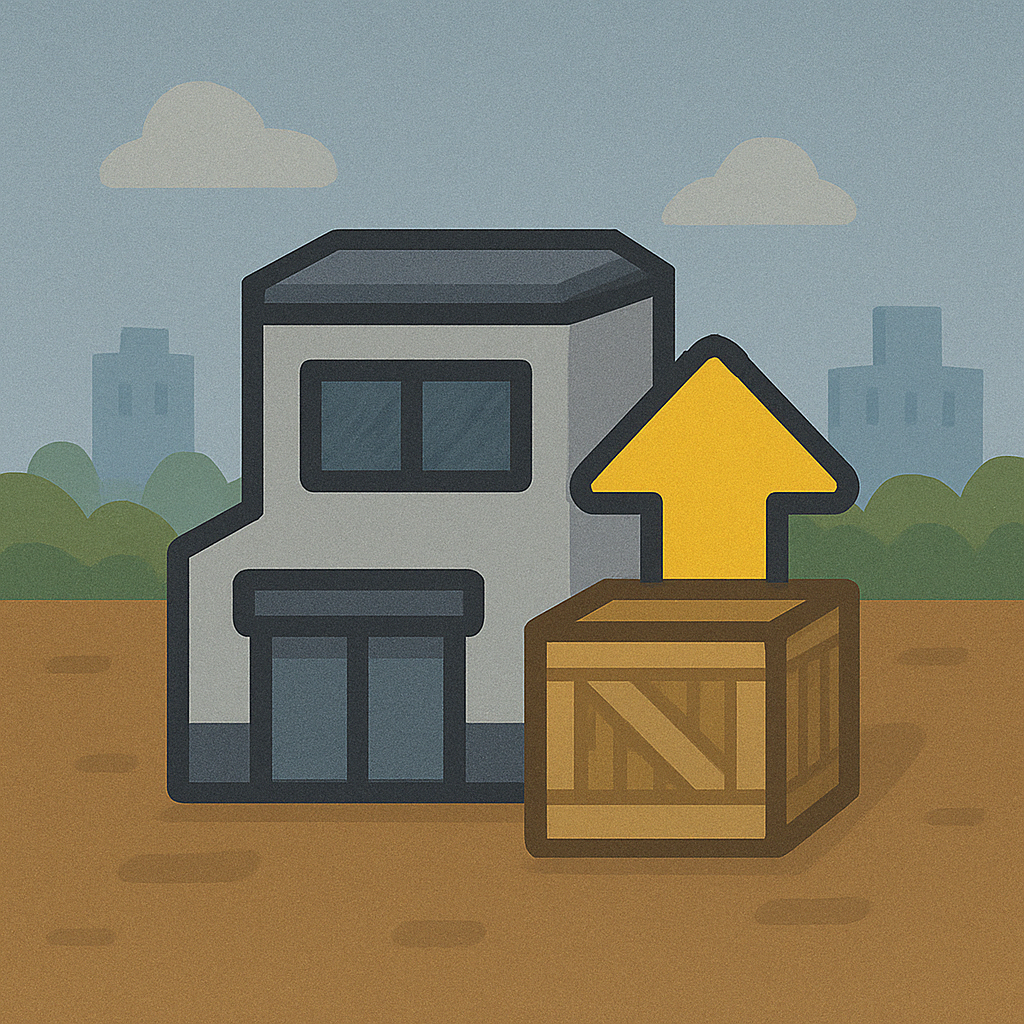
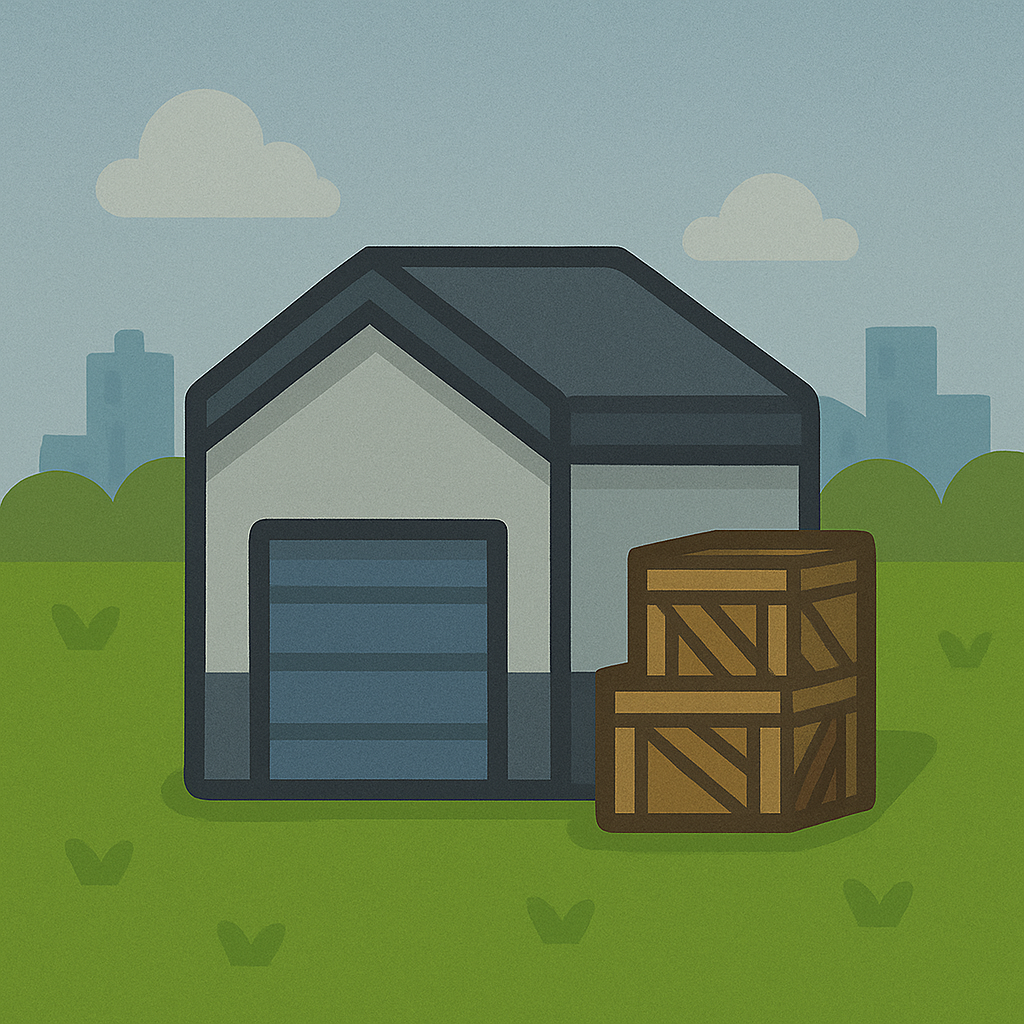
0.2.5
Add model
Add component
Add images
Update Pages

diff --git a/EcoSimGame/Components/WarehouseModal.razor.css b/EcoSimGame/Components/WarehouseModal.razor.css
@@ -1,0 +1,118 @@
+.modal-backdrop {
+    position: fixed;
+    top: 0;
+    left: 0;
+    width: 100vw;
+    height: 100vh;
+    background-color: rgba(0, 0, 0, 0.6);
+    z-index: 10;
+}
+
+.modal {
+    position: fixed;
+    top: 50%;
+    left: 50%;
+    transform: translate(-50%, -50%);
+    background: white;
+    padding: 20px;
+    border-radius: 12px;
+    z-index: 1001;
+    max-width: 500px;
+    width: 90%;
+    min-height: 100px;
+    height: 300px;
+    box-shadow: 0 10px 30px rgba(0, 0, 0, 0.3);
+    display: flex;
+    flex-direction: column;
+    align-items: center;
+    gap: 12px;
+    font-size: 0.95rem;
+}
+
+    .modal h3 {
+        margin-top: 0;
+        font-size: 1.2rem;
+    }
+
+.close-button {
+    background-color: #2196F3;
+    color: white;
+    border: none;
+    padding: 0.4rem 1rem;
+    border-radius: 8px;
+    font-weight: bold;
+    cursor: pointer;
+    transition: background-color 0.3s;
+}
+
+    .close-button:hover {
+        background-color: #0b7dda;
+    }
+
+.building-cards-row {
+    display: flex;
+    flex-wrap: wrap;
+    gap: 1rem;
+    justify-content: center;
+}
+
+.building-card {
+    background-color: #f5f5f5;
+    border: 2px solid #2196F3;
+    border-radius: 12px;
+    padding: 0.4rem 0.2rem;
+    width: 160px;
+    height: 180px;
+    text-align: center;
+    display: flex;
+    flex-direction: column;
+    align-items: center;
+    justify-content: space-between;
+    transition: transform 0.2s ease;
+    overflow: hidden;
+}
+
+    .building-card:hover {
+        transform: scale(1.05);
+    }
+
+.building-image {
+    width: 80px;
+    height: 80px;
+    border-radius: 8px;
+    object-fit: cover;
+    filter: brightness(1.2);
+    filter: brightness(1.3);
+    transition: filter 0.3s ease;
+}
+
+.building-info {
+    font-size: 0.75rem;
+    margin: 0.25rem 0;
+    line-height: 1.1;
+    max-height: 4rem;
+    overflow: hidden;
+    text-overflow: ellipsis;
+}
+
+.building-card button {
+    background-color: #2196F3;
+    color: white;
+    border: none;
+    padding: 4px 10px;
+    border-radius: 8px;
+    font-size: 0.75rem;
+    font-weight: bold;
+    cursor: pointer;
+    transition: background-color 0.3s;
+}
+
+    .building-card button:hover {
+        background-color: #0b7dda;
+    }
+
+    .building-card button:disabled {
+        background-color: #999;
+        cursor: not-allowed;
+        opacity: 0.6;
+    }

diff --git a/EcoSimGame/Services/GameStateService.cs b/EcoSimGame/Services/GameStateService.cs
@@ -12,6 +12,8 @@ namespace EcoSimGame.Services
         public List<EnergyProduction> EnergyBuildings { get; private set; } = new();
         public List<PowerPlantSlot> PowerPlantSlots => Player.PowerPlantSlots;
         public List<EnergyStorageSlot> EnergyStorageSlots => Player.EnergyStorageSlots;
+        public List<WarehouseSlot> WarehouseSlots => Player.WarehouseSlots;
+
 
         public MarketService Market { get; }
         private readonly ILocalStorageService localStorage;
@@ -51,13 +53,20 @@ namespace EcoSimGame.Services
                 {
                     Player.EnergyStorageSlots = Enumerable.Range(0, 2).Select(_ => new EnergyStorageSlot()).ToList();
                 }
+
+                if (Player.WarehouseSlots == null || Player.WarehouseSlots.Count == 0)
+                {
+                    Player.WarehouseSlots = Enumerable.Range(0, 4).Select(_ => new WarehouseSlot()).ToList();
+                }
+
             }
             else
             {
                 Player = new Player
                 {
                     PowerPlantSlots = Enumerable.Range(0, 5).Select(_ => new PowerPlantSlot()).ToList(),
-                    EnergyStorageSlots = Enumerable.Range(0, 2).Select(_ => new EnergyStorageSlot()).ToList()
+                    EnergyStorageSlots = Enumerable.Range(0, 2).Select(_ => new EnergyStorageSlot()).ToList(),
+                    WarehouseSlots = Enumerable.Range(0, 4).Select(_ => new WarehouseSlot()).ToList()
                 };
             }
 
@@ -66,6 +75,8 @@ namespace EcoSimGame.Services
             Player.EnergyStorage.GeneratedEnergyPerTick = Player.PowerPlantSlots
                 .Where(s => s.IsOccupied && s.Building != null)
                 .Sum(s => s.Building.EnergyPerTick);
+
+            UpdateTotalEnergyStorage();
         }
 
 
@@ -107,6 +118,19 @@ namespace EcoSimGame.Services
             }
         }
 
+        public void InitializeWarehouseSlots()
+        {
+            if (Player.WarehouseSlots == null || Player.WarehouseSlots.Count == 0)
+            {
+                Player.WarehouseSlots = new List<WarehouseSlot>();
+                for (int i = 0; i < 4; i++)
+                {
+                    Player.WarehouseSlots.Add(new WarehouseSlot());
+                }
+            }
+        }
+
+
         public void SetPowerPlant(int slotIndex, EnergyProduction newPlant)
         {
             if (slotIndex < 0 || slotIndex >= PowerPlantSlots.Count)
@@ -123,6 +147,16 @@ namespace EcoSimGame.Services
             slot.IsOccupied = true;
 
             Player.EnergyStorage.GeneratedEnergyPerTick += newPlant.EnergyPerTick;
+            OnUpdate?.Invoke();
         }
+
+        public void UpdateTotalEnergyStorage()
+        {
+            Player.EnergyStorage.MaxEnergy = Player.EnergyStorageSlots
+                .Where(s => s.IsBuilt)
+                .Sum(s => s.Capacity);
+            OnUpdate?.Invoke();
+        }
+
     }
 }

diff --git a/EcoSimGame/Models/Player.cs b/EcoSimGame/Models/Player.cs
@@ -10,12 +10,13 @@ public class Player
     public int Experience { get; set; }
 
     public Inventory Inventory { get; set; }
-    public int WarehouseCapacity { get; set; } = 100;
-    public int WarehouseUpgradeCost { get; set; } = 200;
+    public int WarehouseCapacity { get; set; } = 0;
 
     public EnergyStorage EnergyStorage { get; set; } = new();
     public List<PowerPlantSlot> PowerPlantSlots { get; set; } = new();
     public List<EnergyStorageSlot> EnergyStorageSlots { get; set; } = new();
+    public List<WarehouseSlot> WarehouseSlots { get; set; } = new();
+
 
     public DateTime? LastProcessingTime { get; set; }
     public List<string> OwnedSchematics { get; set; }
@@ -72,18 +73,6 @@ public class Player
     public bool HasSchematic(string schematicName) => OwnedSchematics.Contains(schematicName);
     public int GetCurrentInventorySize() => Inventory.GetAllWithQuantity().Sum(item => item.Quantity);
     public bool CanAddToWarehouse(int quantity) => GetCurrentInventorySize() + quantity <= WarehouseCapacity;
-    
-    public bool UpgradeWarehouse()
-    {
-        if (Money >= WarehouseUpgradeCost)
-        {
-            Money -= WarehouseUpgradeCost;
-            WarehouseCapacity += 50;
-            WarehouseUpgradeCost += 1000;
-            return true;
-        }
-        return false;
-    }
 
     public bool TryAddToInventory(string materialName, int quantity)
     {
@@ -92,5 +81,12 @@ public class Player
 
         Inventory.Add(materialName, quantity);
         return true;
+    }
+
+    public void UpdateTotalWarehouseCapacity()
+    {
+        WarehouseCapacity = WarehouseSlots
+            .Where(w => w.IsBuilt)
+            .Sum(w => w.Capacity);
     }
 }

diff --git a/EcoSimGame/Models/Slot/WarehouseSlot.cs b/EcoSimGame/Models/Slot/WarehouseSlot.cs
@@ -1,0 +1,16 @@
+namespace EcoSimGame.Models.Slot;
+
+public class WarehouseSlot
+{
+    public bool IsBuilt { get; set; } = false;
+    public int Level { get; set; } = 1;
+    public int Capacity { get; set; } = 100;
+    public decimal UpgradeCost { get; set; } = 1000;
+
+    public void Upgrade()
+    {
+        Level++;
+        Capacity += 100;
+        UpgradeCost += 1000;
+    }
+}
